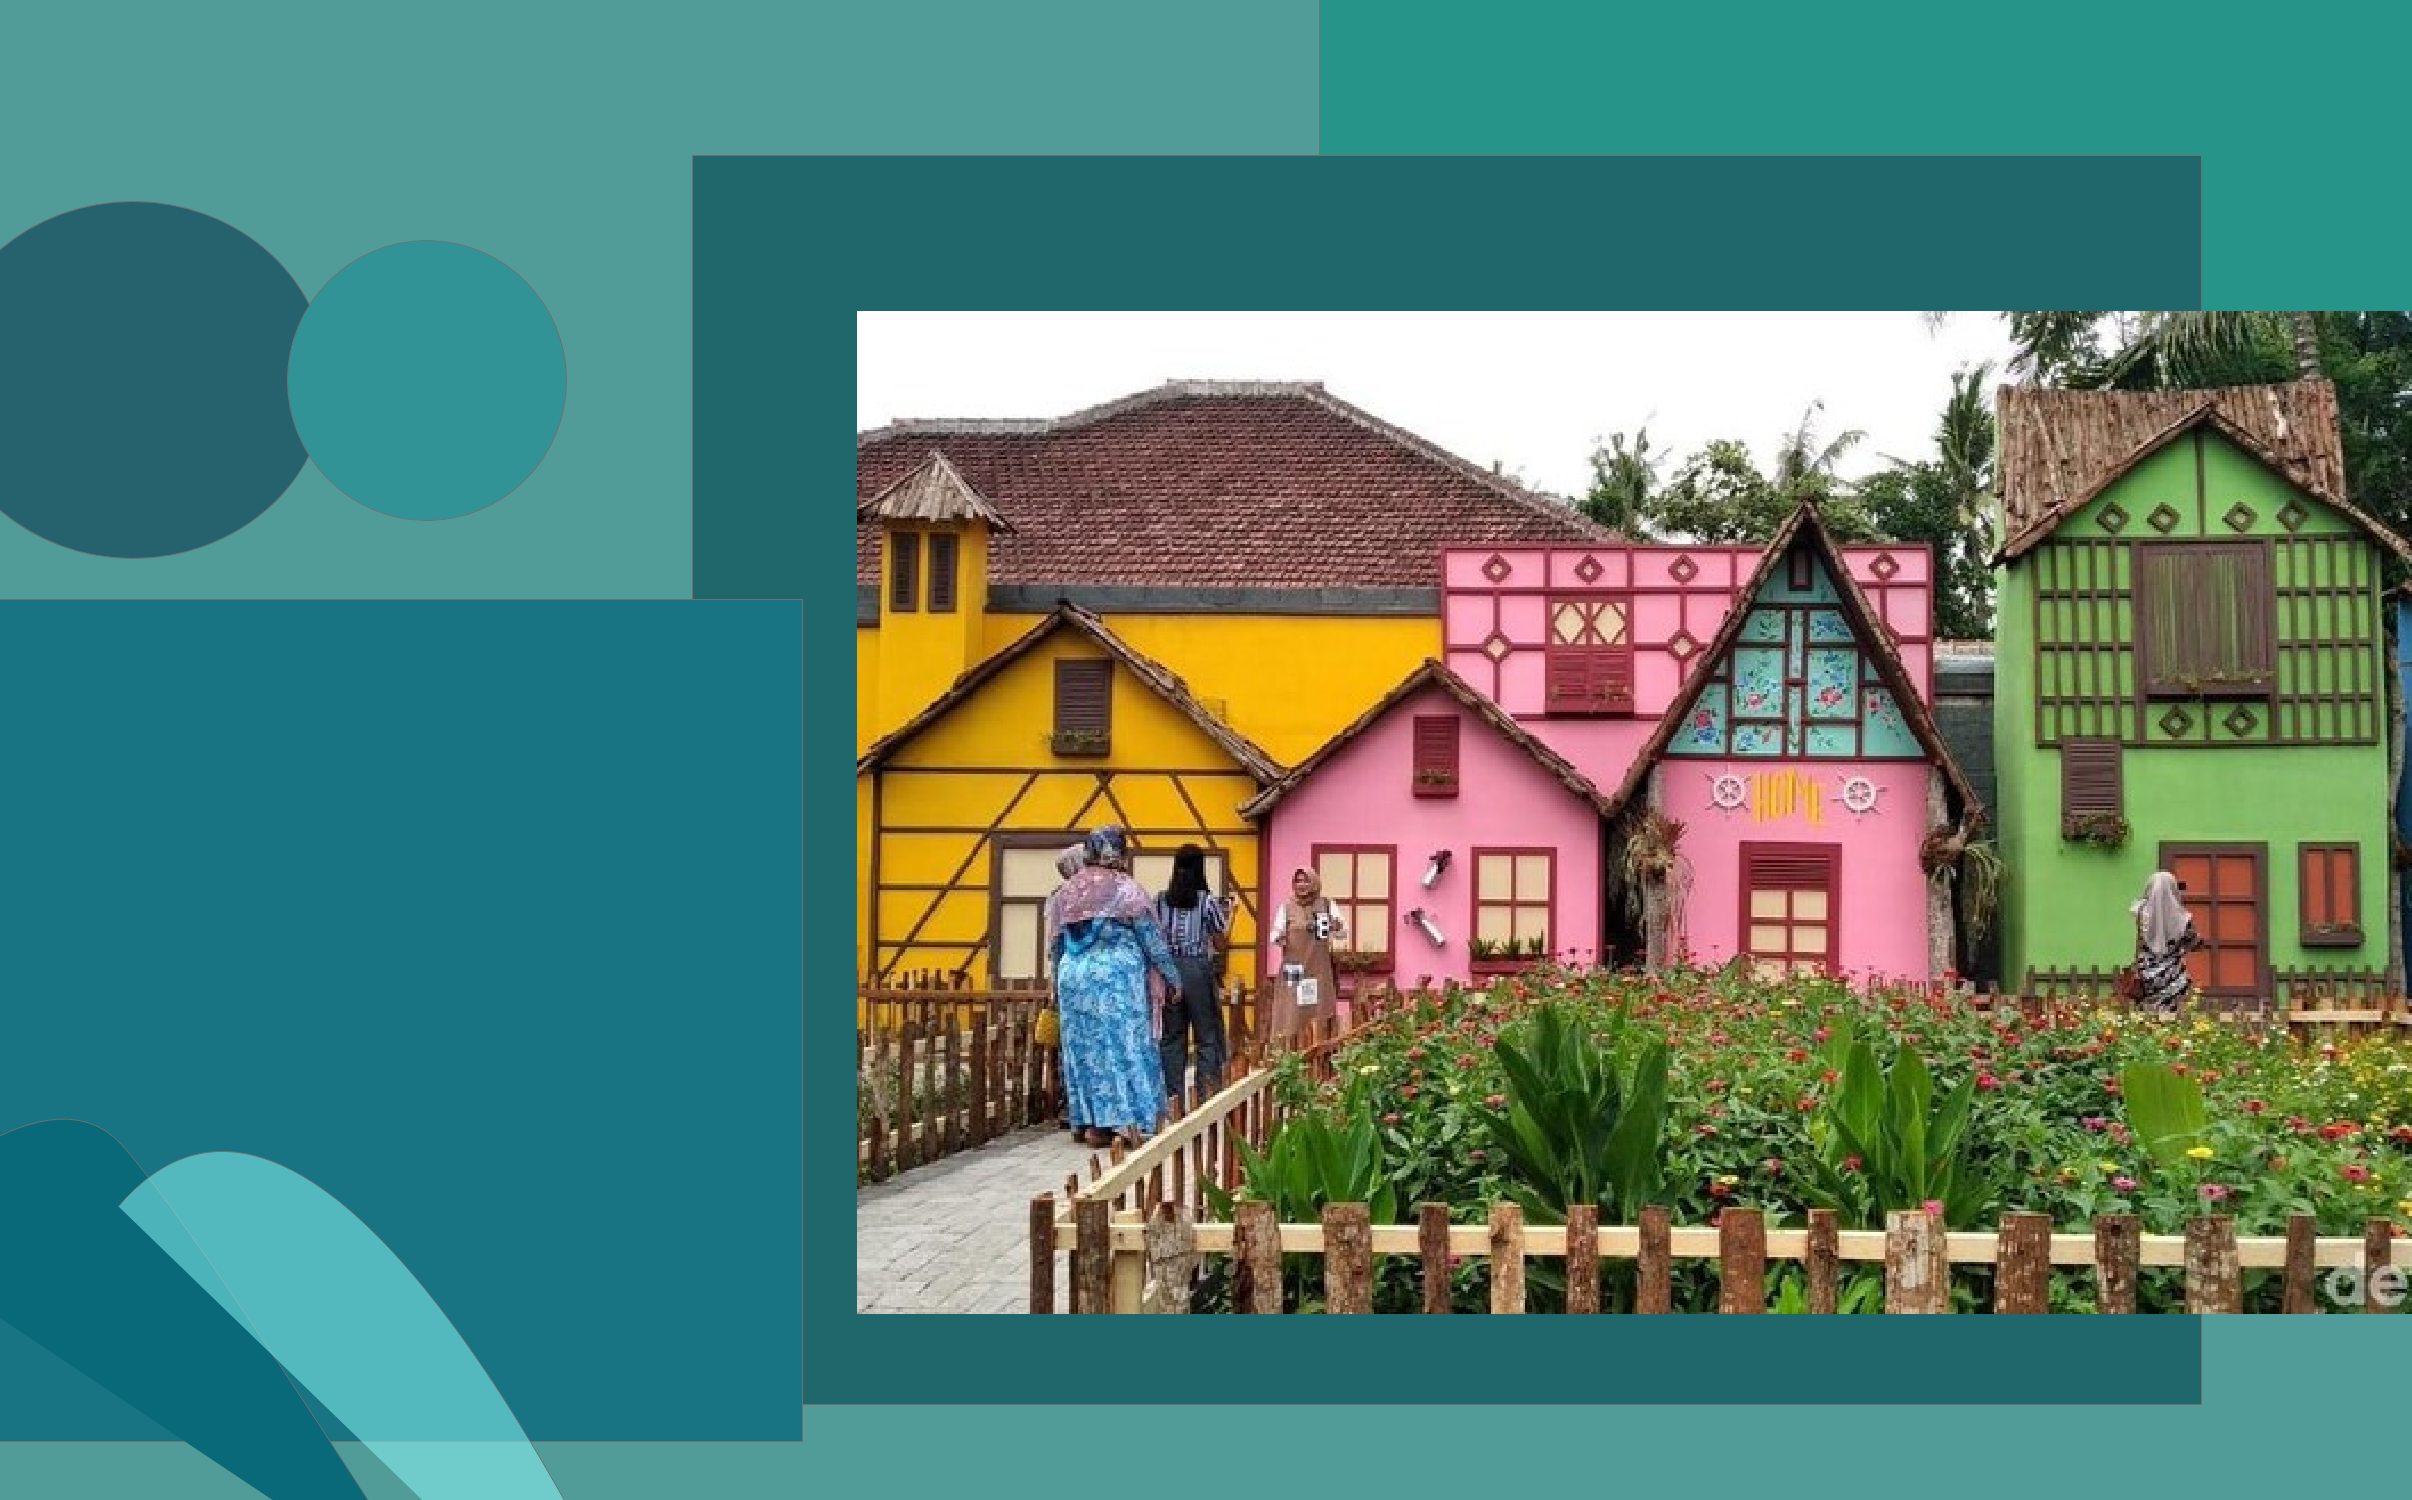
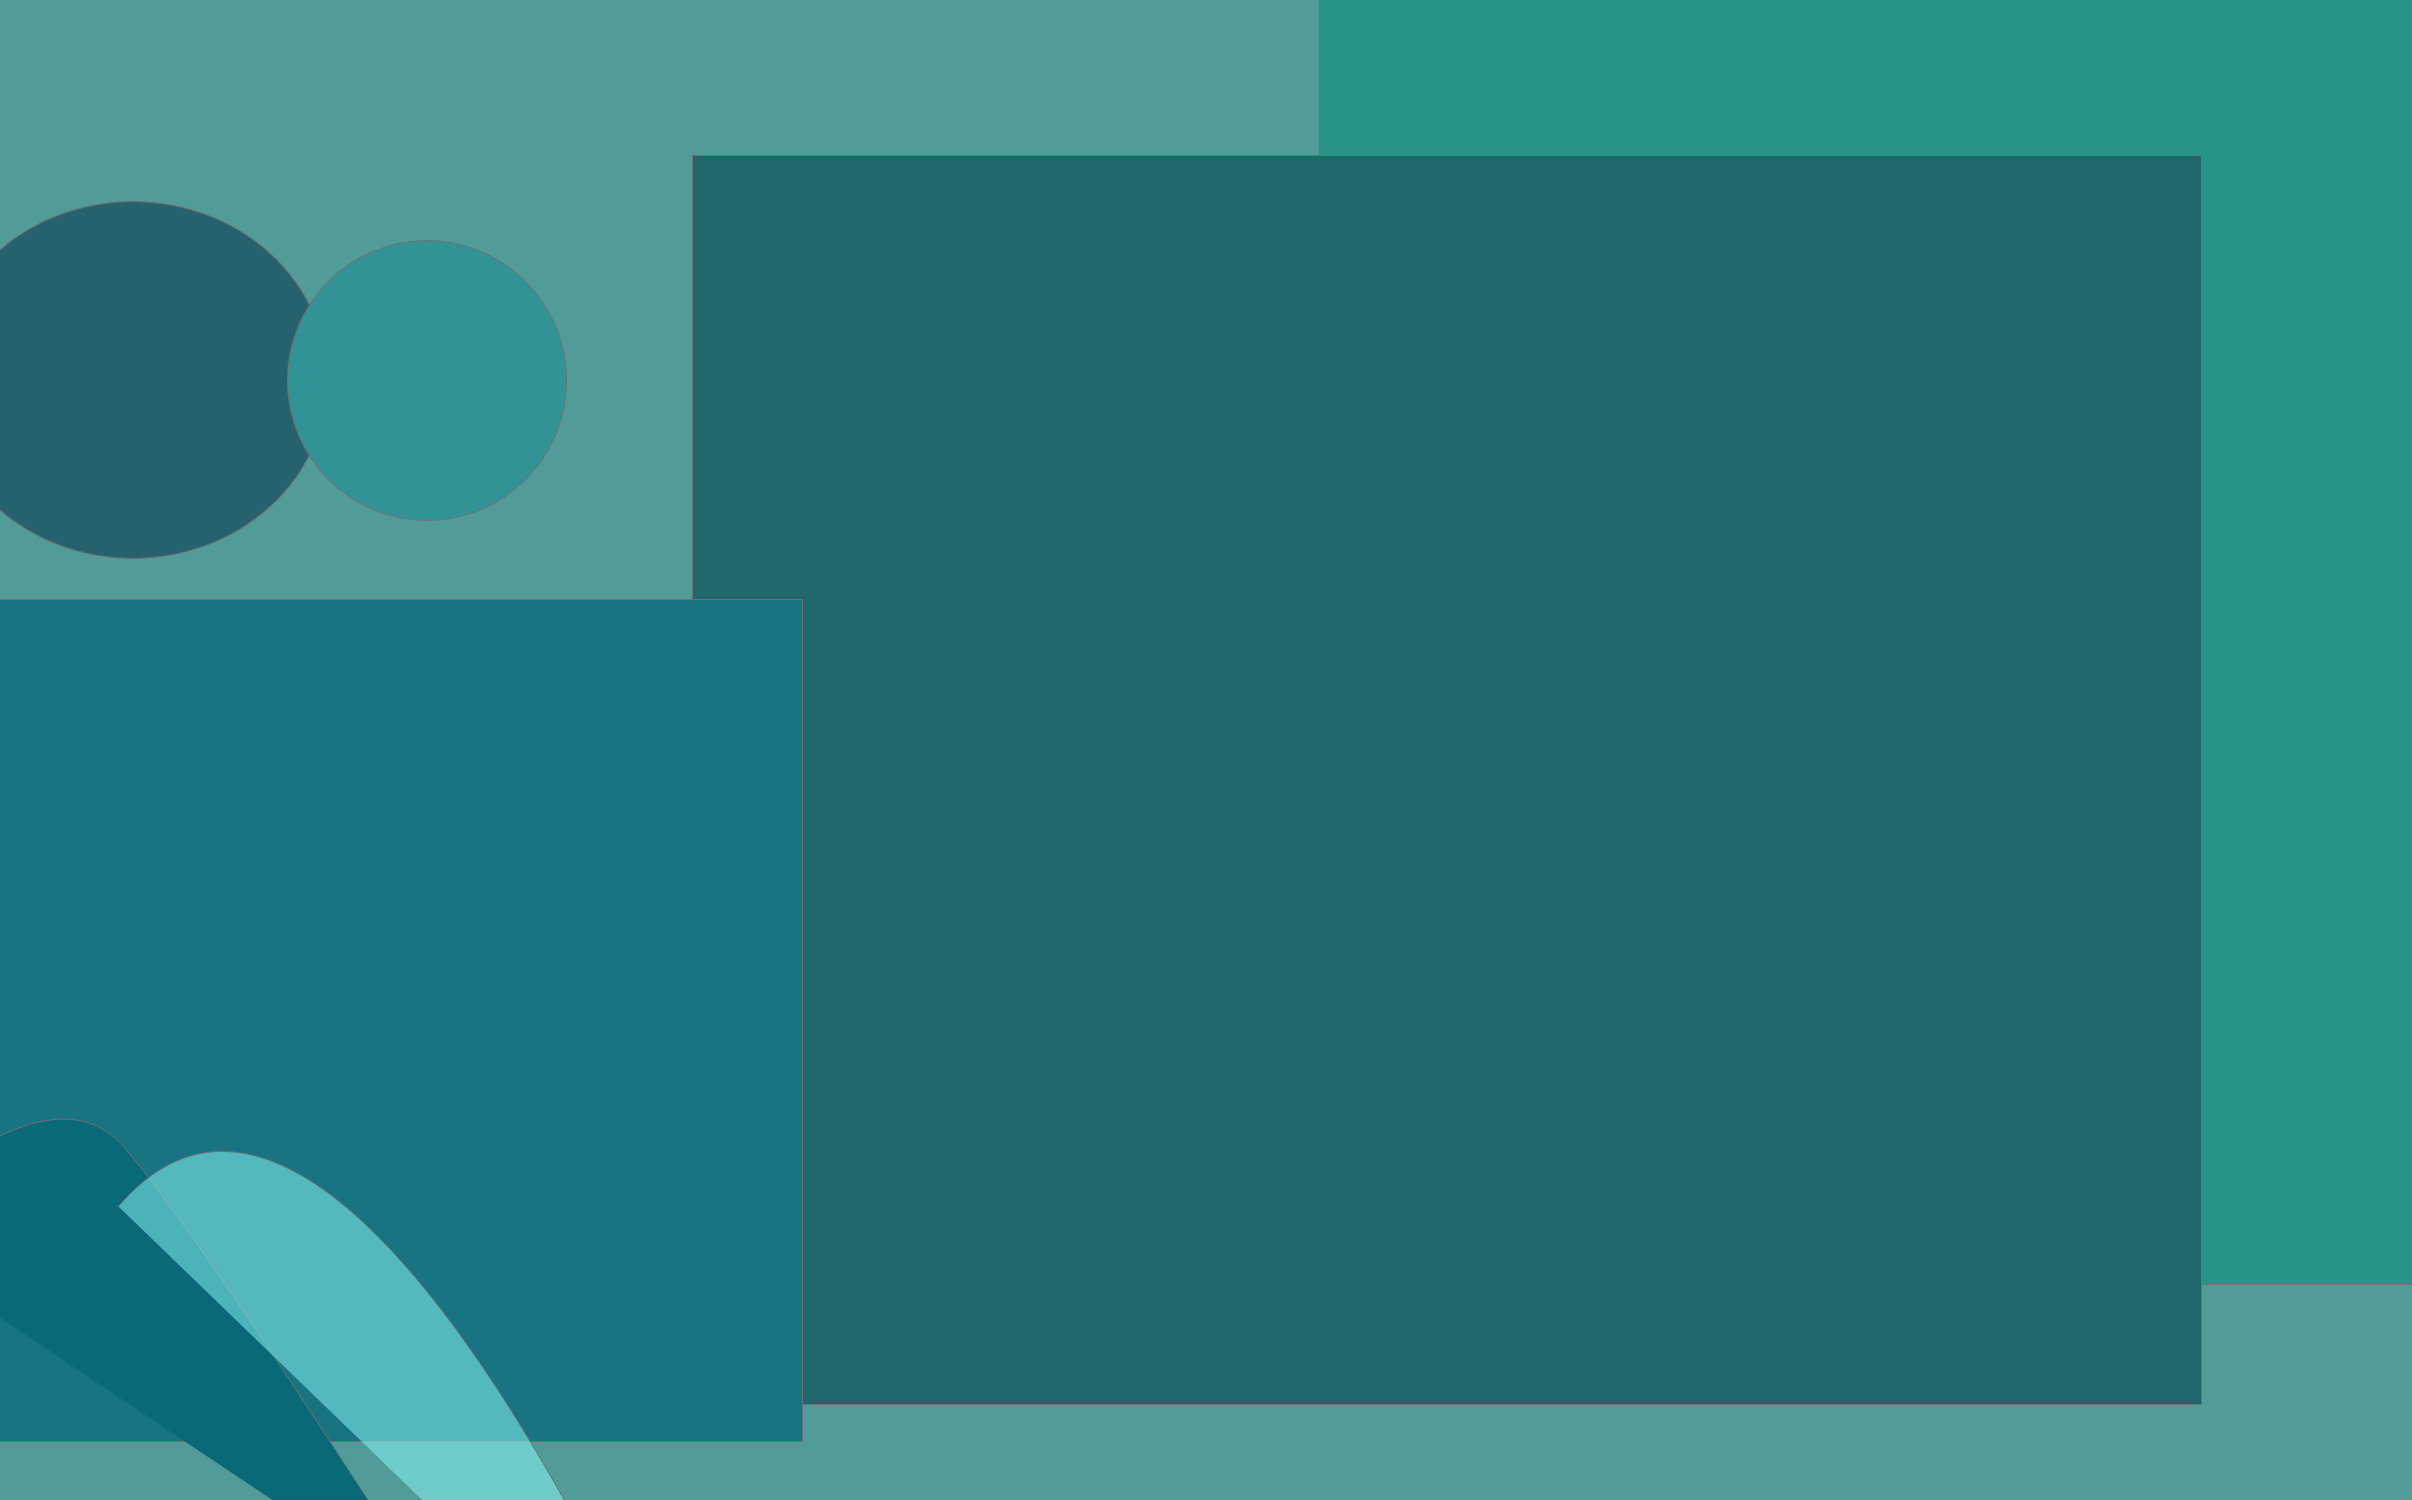
update major perombakan

diff --git a/halaman1.html b/halaman1.html
@@ -5,14 +5,46 @@
   <link rel="stylesheet" type="text/css" href="css.css">
   <link rel="shortcut icon" type="image/png" href="favicon.png">
   <link rel="stylesheet" type="text/css" href="background1.css">
+  <script language="javascript" type="text/javascript">
+    var timerid = 0;
+    var images = new Array("bg1.jpg",
+                "bg2.jpg",
+                "bg3.jpg",
+                "bg4.jpg");
+               
+    var countimages = 0;
+    function startTime()
+    {
+        if(timerid)
+        {
+            timerid = 0;
+        }
+        var tDate = new Date();
+        
+        if(countimages == images.length)
+        {
+            countimages = 0;
+        }
+        if(tDate.getSeconds() % 1 == 0)
+        {
+            document.getElementById("img1").src = images[countimages];
+        }
+        countimages++;
+        
+        timerid = setTimeout("startTime()", 1000);
+    }
+    </script>
 </head>
 
-<body>
+<body onload="startTime();">
+  <div class="bg">
+    <img id="img1" src="bg1.jpg">
+  </div> 
   <div class="explorejbr">
     <h1> EXPLORE JEMBER </h1>
   </div>
   <div class="exploretxt">
     <a href="halaman1.html"> Home</a> | <a href="halaman2.html">About</a> | <a href="halaman3.html">Gallery</a> | <a href="halaman4.html">Contact</a>
-  </div>   
+  </div>  
 </body>
 </html>

diff --git a/background4.css b/background4.css
@@ -4,3 +4,54 @@ body {
     background-attachment: fixed;  
     background-size: cover;
   }
+  .popup {
+    position: relative;
+    display: inline-block;
+    cursor: pointer;
+  }
+  
+  /* The actual popup (appears on top) */
+  .popup .popuptext {
+    visibility: hidden;
+    width: 160px;
+    background-color: #555;
+    color: #fff;
+    text-align: center;
+    border-radius: 6px;
+    padding: 8px 0;
+    position: absolute;
+    z-index: 1;
+    bottom: 125%;
+    left: 50%;
+    margin-left: -80px;
+  }
+  
+  /* Popup arrow */
+  .popup .popuptext::after {
+    content: "";
+    position: absolute;
+    top: 100%;
+    left: 50%;
+    margin-left: -5px;
+    border-width: 5px;
+    border-style: solid;
+    border-color: #555 transparent transparent transparent;
+  }
+  
+  /* Toggle this class when clicking on the popup container (hide and show the popup) */
+  .popup .show {
+    visibility: visible;
+    -webkit-animation: fadeIn 1s;
+    animation: fadeIn 1s
+  }
+  
+  /* Add animation (fade in the popup) */
+  @-webkit-keyframes fadeIn {
+    from {opacity: 0;}
+    to {opacity: 1;}
+  }
+  
+  @keyframes fadeIn {
+    from {opacity: 0;}
+    to {opacity:1 ;}
+  }

diff --git a/halaman4.html b/halaman4.html
@@ -19,8 +19,11 @@
   </div>
   <div class="icons">
       <a href="https://www.facebook.com/" ><img src="facebook.png"width="100" height="100"></i></a>
-      <a href="https://www.instagram.com/" ><img src="instagram.png"width="100" height="100"></i></a>
+      <a href="https://www.instagram.com/explorejember_/" ><img src="instagram.png"width="100" height="100"></i></a>
       <a href="https://www.twitter.com/" ><img src="twitter.png" width="100" height="100"></i></a>
   </div>
+
+<script src="explore.js">
+</script>
 </body>
 </html>

diff --git a/css.css b/css.css
@@ -11,7 +11,21 @@
   margin-top: 40px;
 }
  
+.bg{
+  position: absolute;
+  z-index: -1;
+}
+
+#img1{
+  width: 110%;
+  height: auto;
+  margin-top: 8.9%;
+  margin-left: -1%;
+}
 /* halaman 2 */
+body{
+  overflow:hidden;
+}
 .about{
   color: black;
   text-align: center;
@@ -30,6 +44,16 @@
   font-size: 15px;
   margin: 160px 990px 10px 5px;
 }
+
+#pic{
+  position: absolute;
+  width:60%;
+  height: auto;
+  margin-top: 9%;
+  margin-left: 37%;
+
+}
+
 
 /* halaman 3 */
 .galleryhead {

diff --git a/halaman2.html b/halaman2.html
@@ -8,12 +8,16 @@
   </head>
 
 <body>
+  <div>
+    <img id="pic" src="aboutPict.png">
+  </div> 
   <div class="about">
     <h1> All About Explore Jember </h1>
   </div>
   <div class="back2">
     <h4><a href="halaman1.html"> Back</a></h4> 
-  </div>   
+  </div>
+  
 <div class="explore">
     <label> Sebagai Pemandu Wisata yang berdedikasi sejak tahun 2000</label><br>
     <label> saya beruntung mengubah hasrat saya untuk bepergian dan</label><br>

diff --git a/explore.js b/explore.js
@@ -1,0 +1,4 @@
+function myFunction() {
+    var popup = document.getElementById("myPopup");
+    popup.classList.toggle("show");
+  }
